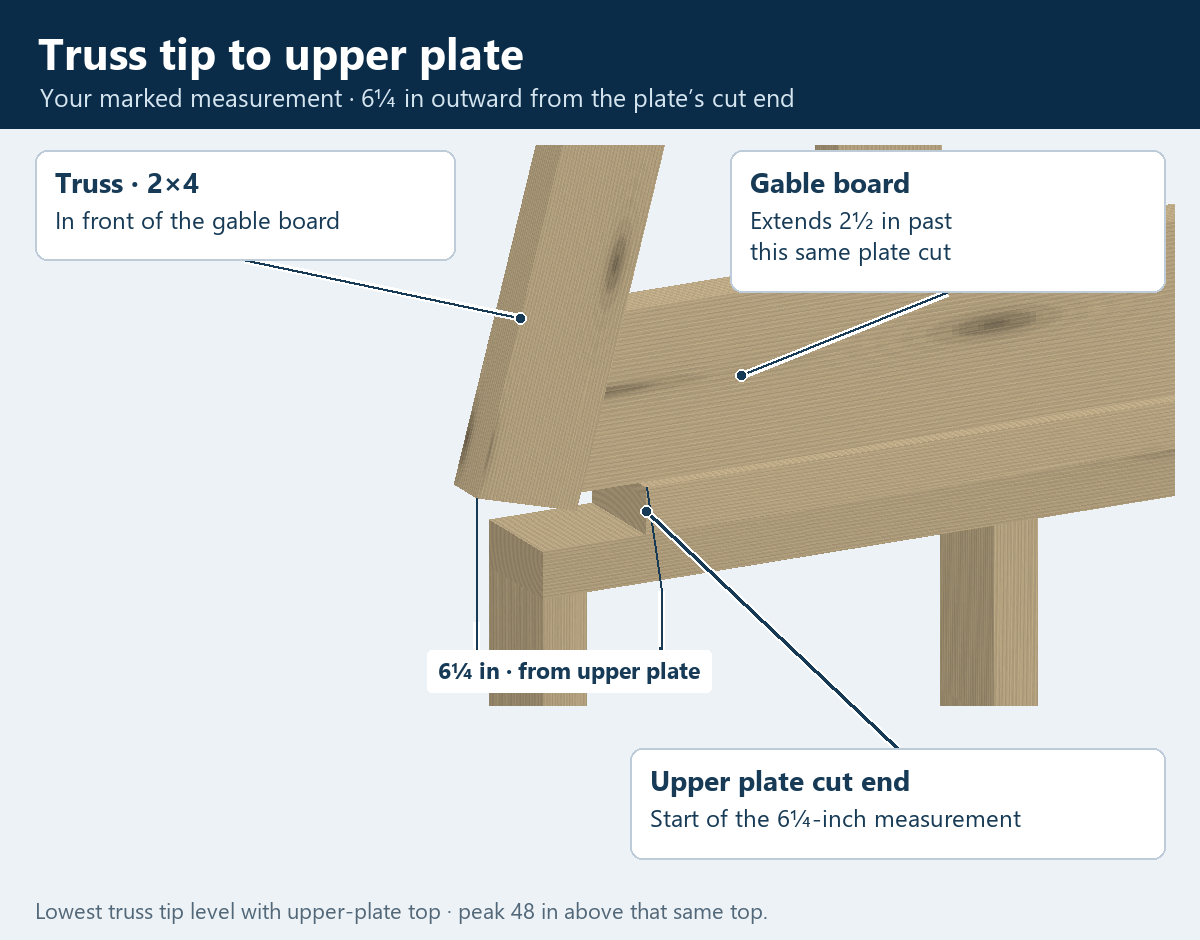
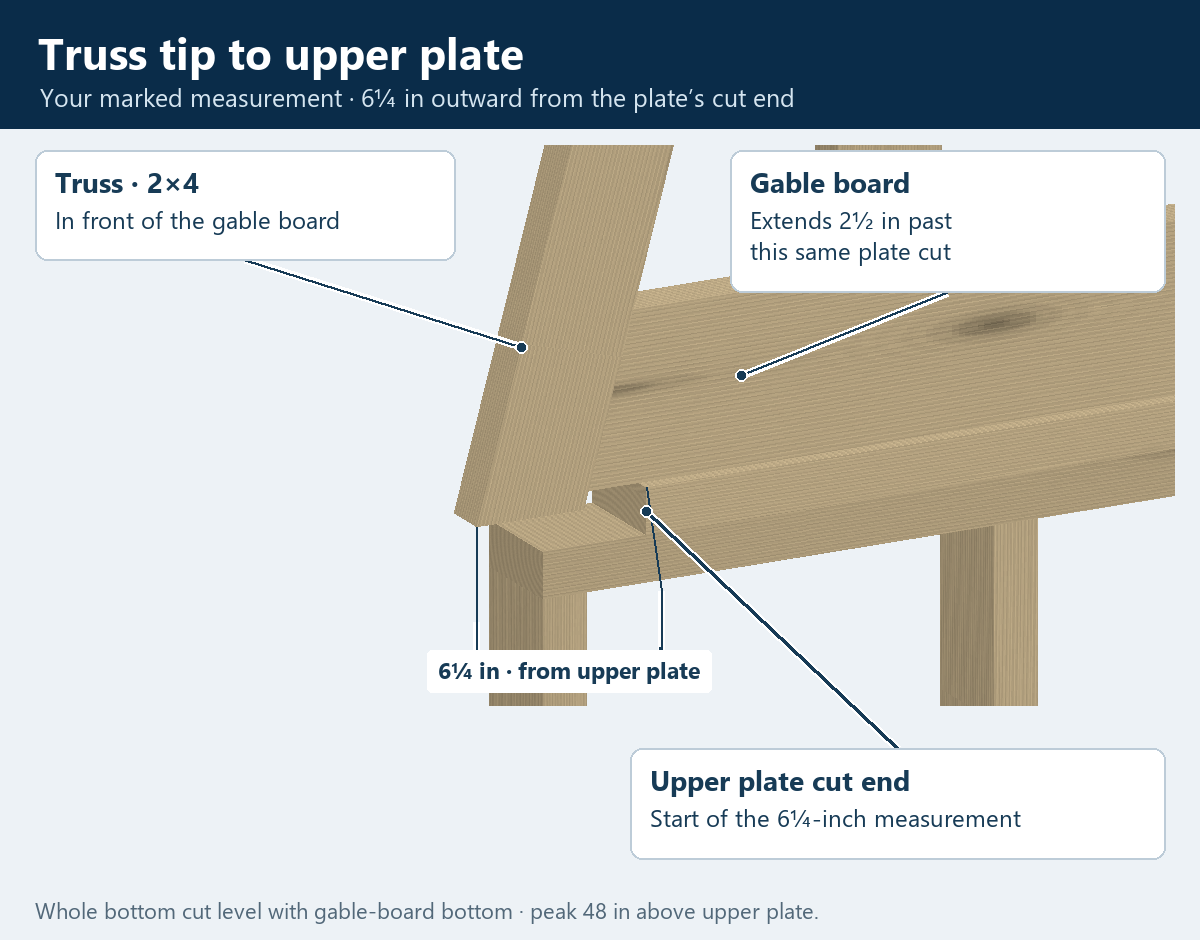
Align full truss bottom cut with gable board bottom

diff --git a/model/truss-study.js b/model/truss-study.js
@@ -9,14 +9,14 @@ function positive(value, name) {
   return value;
 }
 
-/* Fit the long outer edges between the plate datum and peak. The lowest
-   tail point is level with the upper-plate top. Square tail cuts remain
-   provisional; the truss is in front of the board, not seated on its top.
+/* Fit the long outer edges between the plate datum and peak. The entire
+   tail cut is level with the gable-board bottom / upper-plate top.
+   The truss is against the front face of the board.
    All working lengths here are inches. */
 function solveProfile(upper, lower, rise, tipX, depth) {
   function evaluate(angle) {
     const c = Math.cos(angle), s = Math.sin(angle);
-    const tipY = depth * c;
+    const tipY = 0;
     const kneeX = tipX - lower * c, kneeY = tipY + lower * s;
     const upperAngle = Math.atan2(rise - kneeY, kneeX);
     return { residual: Math.hypot(kneeX, rise - kneeY) - upper,
@@ -47,8 +47,9 @@ function solveProfile(upper, lower, rise, tipX, depth) {
   const lowerInnerIntercept = fit.tipY + lowerSlope * tipX - depth / Math.cos(fit.lowerAngle);
   const innerKneeX = (lowerInnerIntercept - innerPeakY) / (lowerSlope - upperSlope);
   const innerKneeY = innerPeakY - upperSlope * innerKneeX;
-  const innerTipX = tipX - depth * Math.sin(fit.lowerAngle);
-  const innerTipY = fit.tipY - depth * Math.cos(fit.lowerAngle);
+  // Intersect the inward-offset stock edge with the same horizontal datum.
+  const innerTipX = tipX - depth / Math.sin(fit.lowerAngle);
+  const innerTipY = 0;
   if (innerPeakY <= 0 || innerKneeX <= 0 || innerKneeY <= 0 || innerTipX <= 0 ||
       innerKneeX >= innerTipX || innerKneeX >= fit.kneeX || innerKneeY >= fit.kneeY)
     throw new Error("The truss preview cuts do not leave a valid full-depth board.");
@@ -65,7 +66,7 @@ export function trussStudyPlan(plan, { truss = false } = {}) {
   const raw = plan.construction?.trussStudy;
   if (!raw) throw new Error("The truss preview needs construction.trussStudy measurements.");
   if (raw.placement !== "against-gable-inner-face" || raw.peakDatum !== "upper-plate-top" ||
-      raw.lowestTipDatum !== "upper-plate-top" || raw.tailCut !== "square-to-member" || raw.layout !== "mirrored-about-center")
+      raw.lowestTipDatum !== "upper-plate-top" || raw.tailCut !== "level-with-gable-bottom" || raw.layout !== "mirrored-about-center")
     throw new Error("The truss preview needs its face placement, plate datums, tail cut and mirrored layout.");
   const thicknessIn = positive(raw.chord?.thicknessIn, "chord.thicknessIn");
   const depthIn = positive(raw.chord?.depthIn, "chord.depthIn");
@@ -122,7 +123,7 @@ export function trussStudyPlan(plan, { truss = false } = {}) {
     assumptionNotes: [
       `Preview mirrors the marked ${projectionIn}-inch projection at both ends.`,
       `The truss is against the shown face of the gable board; its lowest tips and ${peakRiseIn}-inch peak rise use the upper-plate top.`,
-      "Tail cuts are square across the stock; knee and peak cuts share mitres. These are provisional cuts.",
+      "The whole bottom cut is level with the gable-board bottom, at the upper-plate top. Knee and peak mitres remain provisional.",
       `Preview gable studs are ${raw.studs.nominal || "2x4"}s on the board, starting under the peak, with their tops behind the truss face. This top fit is provisional.`,
       "Derived slopes and stud cuts are a preview fit, not an approved shop cut list.",
     ],

diff --git a/truss.html b/truss.html
@@ -30,9 +30,9 @@
   <main>
     <p class="eyebrow">10 × 16 · End wall · Fit preview</p>
     <h1>Truss and gable studs</h1>
-    <p>The <strong>2×4 truss</strong> goes against the front face of the <strong>gable board</strong>, with its lowest tips level with the upper plate’s top. The upper piece is <strong>54 inches</strong> and the lower, steeper piece is <strong>37¾ inches</strong>, measured between their longest points. The highest peak is <strong>4 feet above the top of the upper plate</strong>.</p>
+    <p>The <strong>2×4 truss</strong> goes against the front face of the <strong>gable board</strong>, with its whole bottom cut level with the gable board’s bottom and the upper plate’s top. The upper piece is <strong>54 inches</strong> and the lower, steeper piece is <strong>37¾ inches</strong>, measured between their longest points. The highest peak is <strong>4 feet above the top of the upper plate</strong>.</p>
     <nav aria-label="Lesson views">
-      <a href="learn.html?step=truss&amp;v=truss-2">Rotate the truss model</a>
+      <a href="learn.html?step=truss&amp;v=truss-3">Rotate the truss model</a>
       <a href="gable.html">Earlier: gable board</a>
     </nav>
     <h2>The truss above the end wall</h2>
@@ -54,7 +54,7 @@
       <dt>Gable studs</dt><dd>Facing outward, seated on the gable board, 24 inches on center.</dd>
       <dt>Tip-to-tip width in this mirrored preview</dt><dd>113-inch upper plate + 6¼ inches at each end = 125½ inches.</dd>
     </dl>
-    <p class="note"><strong>Fit choices to check:</strong> this preview mirrors the marked end at the opposite end, uses a straight lower edge with a square tail cut, and centers a 2×4 gable stud under the peak with its wide face outward. The remaining studs follow at 24 inches on center. Their tops are shown behind the truss face as a provisional connection. These fit choices and the calculated joint angles still need your review.</p>
+    <p class="note"><strong>Fit choices to check:</strong> this preview mirrors the marked end at the opposite end, uses shared knee/peak miters, and centers a 2×4 gable stud under the peak with its wide face outward. The remaining studs follow at 24 inches on center. Their tops are shown behind the truss face as a provisional connection. These fit choices and the calculated joint angles still need your review.</p>
   </main>
 </body>
 </html>

diff --git a/ui/learn-wall.js b/ui/learn-wall.js
@@ -197,8 +197,8 @@ export async function startWallLesson({gable=false,truss=false}={}) {
     }
     function trussCaption(t) {
       $("piece-title").textContent="Truss and gable studs — fit preview";
-      $("piece-description").textContent="The 2×4 truss goes against the front face of the gable board, with its lowest tips level with the upper plate’s top. Its upper pieces lead to the peak; the lower pieces form the steeper sides. The gable studs remain on the board; their top fit behind the truss is a preview choice.";
-      $("piece-draft").textContent="Fit preview: mirrored ends and center-stud layout to check. The studs use 2×4s with their broad faces outward; the tail cuts and stud-top connection remain to check.";
+      $("piece-description").textContent="The 2×4 truss goes against the front face of the gable board, with the whole bottom cut level with the gable board’s bottom and the upper plate’s top. Its upper pieces lead to the peak; the lower pieces form the steeper sides. The gable studs remain on the board; their top fit behind the truss is a preview choice.";
+      $("piece-draft").textContent="Fit preview: mirrored ends and center-stud layout to check. The studs use 2×4s with their broad faces outward; the knee/peak cuts and stud-top connection remain to check.";
       const rows=[
         ["Upper truss piece · longest edge",formatInches(t.upperLengthFt)],
         ["Lower truss piece · longest edge",formatInches(t.lowerLengthFt)],

diff --git a/ui/learn-truss-labels.js b/ui/learn-truss-labels.js
@@ -60,7 +60,7 @@ export function createTrussLabels(viewport,renderer) {
       line(project(a.leftTip),project(tip),{"stroke-dasharray":"3 3"});
       line(project(a.leftPlateCut),project(cut),{"stroke-dasharray":"3 3"});
       dimension(tip,cut,`${inches(t.projectionFt.start)} · tip to plate cut`,26);
-      card("Truss tip","2×4 · 1½″ × 3½″","lowest point at plate top",a.leftLowestTip,14,16);
+      card("Truss tip","2×4 · 1½″ × 3½″","bottom cut level with board",a.leftLowestTip,14,16);
       card("Upper plate","6¼″ ends at this cut","gable board is above it",a.leftPlateCut,w-cardW-14,h-72);
     } else {
       dimension(a.upperLeftStart,a.upperLeftEnd,`${inches(t.upperLengthFt)} upper`,-18);

diff --git a/tools/render-joist-picture.py b/tools/render-joist-picture.py
@@ -169,7 +169,7 @@ def render_truss():
     stud=min(m['studMembers'],key=lambda r:r['center'][0])
     leader(d,project(stud['center']),(35,748,545,111),'Gable studs',['Wide face outward · on the gable board'])
     leader(d,project([2,board['y0Ft']+.22,board['z1Ft']]),(620,748,545,111),'Gable board · 2×6',['118 in · nailed to the upper plate'])
-    d.text((35,895),'Fit preview · mirrored ends, stud layout and end cuts still to check.',font=font(23),fill='#526879')
+    d.text((35,895),'Fit preview · mirrored ends, stud layout and knee/peak joints still to check.',font=font(23),fill='#526879')
     im.save(ROOT/'images/truss-framing.png')
 
     tip=a['leftTip'];cut=a['leftPlateCut']
@@ -186,7 +186,7 @@ def render_truss():
     leader(d,project(lower_point),(35,150,420,110),'Truss · 2×4',['In front of the gable board'])
     leader(d,project([plate['x0Ft'],(plate['y0Ft']+plate['y1Ft'])/2,plate['z1Ft']]),(630,748,535,111),'Upper plate cut end',['Start of the 6¼-inch measurement'])
     leader(d,project([board['x0Ft']+.5,board['y1Ft']-.22,board['z1Ft']]),(730,150,435,142),'Gable board',['Extends 2½ in past','this same plate cut'])
-    d.text((35,895),'Lowest truss tip level with upper-plate top · peak 48 in above that same top.',font=font(22),fill='#526879')
+    d.text((35,895),'Whole bottom cut level with gable-board bottom · peak 48 in above upper plate.',font=font(22),fill='#526879')
     im.save(ROOT/'images/truss-connection.png')
 
 def render_gable():

diff --git a/.agents/skills/shed-measurements/SKILL.md b/.agents/skills/shed-measurements/SKILL.md
@@ -108,8 +108,11 @@ length. Mirroring it at both ends remains provisional; this gives
 long, on edge above the upper plate, with its 0.5 in inside ledge and
 2.5 in projections unchanged.
 
-Square tail cuts and shared knee/peak miters remain preview assumptions.
-Solve the slopes with the lowest square-cut corner at the plate datum;
+Alan’s later blue line confirms that the **whole bottom cut of the truss
+is level with the gable-board bottom**, which is the upper-plate top.
+Both corners of that cut use the same elevation. This replaces the earlier
+square-to-stock tail assumption; shared knee/peak miters remain provisional.
+Solve the slopes from the farthest tail point on that horizontal datum;
 do not impose the superseded gable-board top-corner bearing constraint.
 Place the truss's back face against the board's shown face, with no solid
 overlap. Do not add a notch or infer a fastening schedule.
@@ -128,10 +131,12 @@ species, grade, fasteners and lengthwise truss spacing remain unspecified.
 For reuse, calculate `peakY = upperPlate.topY + peakRise`,
 `studBaseY = gableBoard.topY`, and each end's `tipX = plateCutX + outwardProjection`.
 Resolve new lengths, rise and tail cut together; do not scale this example's
-54/37.75/48 in inputs automatically. A square tail puts its outer long point
-`chordDepth * cos(lowerSlopeAngle)` above the lowest tip. Fit the two outer
+54/37.75/48 in inputs automatically. Set the outer tail point and inner
+cut corner to `Y = upperPlate.topY = gableBoard.bottomY`. Fit the two outer
 member lengths from that point to the knee and peak, then offset their lines
-by the actual 3.5 in depth for the inner edges. The projected board and truss
+by the actual 3.5 in depth for the inner edges. For the right-hand piece,
+`innerTailX = outerTailX - chordDepth / sin(lowerSlopeAngle)` is the
+intersection with that horizontal bottom cut; mirror it for the left side. The projected board and truss
 outlines overlap because they touch across depth; verify 3D volumes rather
 than rejecting that intended 2D overlap. Stud top cuts and mirrored opposite
 ends remain conditional results until confirmed.

diff --git a/.agents/skills/shed-customer-setup/SKILL.md b/.agents/skills/shed-customer-setup/SKILL.md
@@ -158,8 +158,11 @@ length. Mirroring it at both ends remains provisional; this gives
 long, on edge above the upper plate, with its 0.5 in inside ledge and
 2.5 in projections unchanged.
 
-Square tail cuts and shared knee/peak miters remain preview assumptions.
-Solve the slopes with the lowest square-cut corner at the plate datum;
+Alan’s later blue line confirms that the **whole bottom cut of the truss
+is level with the gable-board bottom**, which is the upper-plate top.
+Both corners of that cut use the same elevation. This replaces the earlier
+square-to-stock tail assumption; shared knee/peak miters remain provisional.
+Solve the slopes from the farthest tail point on that horizontal datum;
 do not impose the superseded gable-board top-corner bearing constraint.
 Place the truss's back face against the board's shown face, with no solid
 overlap. Do not add a notch or infer a fastening schedule.

diff --git a/.claude/skills/part-gable-frame/SKILL.md b/.claude/skills/part-gable-frame/SKILL.md
@@ -118,8 +118,11 @@ length. Mirroring it at both ends remains provisional; this gives
 long, on edge above the upper plate, with its 0.5 in inside ledge and
 2.5 in projections unchanged.
 
-Square tail cuts and shared knee/peak miters remain preview assumptions.
-Solve the slopes with the lowest square-cut corner at the plate datum;
+Alan’s later blue line confirms that the **whole bottom cut of the truss
+is level with the gable-board bottom**, which is the upper-plate top.
+Both corners of that cut use the same elevation. This replaces the earlier
+square-to-stock tail assumption; shared knee/peak miters remain provisional.
+Solve the slopes from the farthest tail point on that horizontal datum;
 do not impose the superseded gable-board top-corner bearing constraint.
 Place the truss's back face against the board's shown face, with no solid
 overlap. Do not add a notch or infer a fastening schedule.

diff --git a/docs/examples/10x16-side-loft.md b/docs/examples/10x16-side-loft.md
@@ -163,8 +163,11 @@ length. Mirroring it at both ends remains provisional; this gives
 long, on edge above the upper plate, with its 0.5 in inside ledge and
 2.5 in projections unchanged.
 
-Square tail cuts and shared knee/peak miters remain preview assumptions.
-Solve the slopes with the lowest square-cut corner at the plate datum;
+Alan’s later blue line confirms that the **whole bottom cut of the truss
+is level with the gable-board bottom**, which is the upper-plate top.
+Both corners of that cut use the same elevation. This replaces the earlier
+square-to-stock tail assumption; shared knee/peak miters remain provisional.
+Solve the slopes from the farthest tail point on that horizontal datum;
 do not impose the superseded gable-board top-corner bearing constraint.
 Place the truss's back face against the board's shown face, with no solid
 overlap. Do not add a notch or infer a fastening schedule.

diff --git a/.claude/skills/part-roof-frame/SKILL.md b/.claude/skills/part-roof-frame/SKILL.md
@@ -24,8 +24,11 @@ length. Mirroring it at both ends remains provisional; this gives
 long, on edge above the upper plate, with its 0.5 in inside ledge and
 2.5 in projections unchanged.
 
-Square tail cuts and shared knee/peak miters remain preview assumptions.
-Solve the slopes with the lowest square-cut corner at the plate datum;
+Alan’s later blue line confirms that the **whole bottom cut of the truss
+is level with the gable-board bottom**, which is the upper-plate top.
+Both corners of that cut use the same elevation. This replaces the earlier
+square-to-stock tail assumption; shared knee/peak miters remain provisional.
+Solve the slopes from the farthest tail point on that horizontal datum;
 do not impose the superseded gable-board top-corner bearing constraint.
 Place the truss's back face against the board's shown face, with no solid
 overlap. Do not add a notch or infer a fastening schedule.

diff --git a/docs/BUILDING-TERMS.md b/docs/BUILDING-TERMS.md
@@ -126,7 +126,8 @@ is still an assumption to check, yielding `113 + 6.25 + 6.25 = 125.5 in`
 overall. Its calculated slope angles are not confirmed shop saw settings.
 The corrected truss is against the board’s shown front face, with its
 lowest tips level with the upper-plate top. The 48 in rise starts at the
-upper-plate top. Square tail cuts and knee/peak miters remain fit assumptions. The preview gable studs use 2x4s
+upper-plate top. Alan’s blue line also confirms a level bottom cut across the
+whole truss end, aligned with the gable-board bottom. Knee/peak miters remain fit assumptions. The preview gable studs use 2x4s
 with their 3 1/2 in faces across the gable and a center stud under the peak,
 then 24 in steps each way; their section and exact origin are not confirmed.
 Their tops are previewed behind the truss face, clipped to the outer roof

diff --git a/README.md b/README.md
@@ -92,7 +92,8 @@ remain unconfirmed. He confirmed **2x4 truss lumber** and supplied
 54 in for the upper piece leading to the peak and 37 3/4 in for the lower,
 steeper piece, measured at the longest points. The peak is 4 ft (48 in)
 above the upper-plate top, and the lowest truss tips are level with that
-same top (Alan’s September 29 correction). His annotated photograph resolves the separate
+same top (Alan’s September 29 correction). His later blue line confirms
+that the entire bottom cut is level with the gable-board bottom. His annotated photograph resolves the separate
 **6 1/4 in** dimension: along the end wall from the **upper plate's cut end
 to the outermost truss tip**. The current `?step=truss` view adds four
 sloping pieces and the gable studs for review; the
